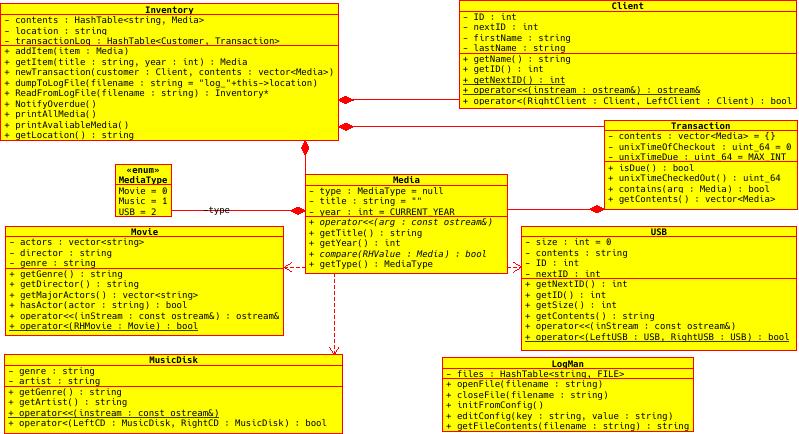
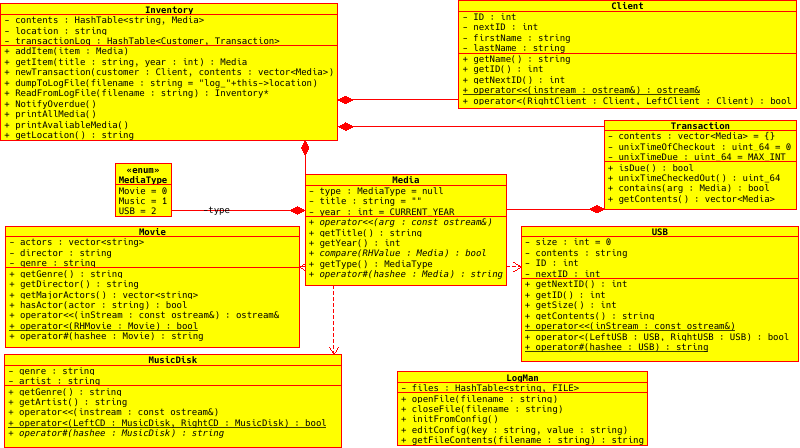
initial work on hastable testing

Changed region(s): [[0.0, 0.0, 1.0, 1.0]]

diff --git a/tests/alltests.cpp b/tests/alltests.cpp
@@ -1,7 +1,7 @@
 #include <iostream>
-#include "../src/media/movie/movie_genres/header_files/classic.h"
-#include "../src/media/movie/movie_genres/header_files/drama.h"
-#include "../src/media/movie/movie_genres/header_files/comedy.h"
+#include "media/movie/movie_genres/header_files/classic.h"
+#include "media/movie/movie_genres/header_files/drama.h"
+#include "media/movie/movie_genres/header_files/comedy.h"
 
 
 using namespace std;

diff --git a/tests/hashtabletest.cpp b/tests/hashtabletest.cpp
@@ -1,0 +1,10 @@
+#include <iostream>
+#include <string>
+using namespace std;
+
+extern HashTableForTesting<int, int> testTable;
+
+void hashTableTest(){
+  cout << "[+] Testing HashTable" << endl;
+}
+XS\\

diff --git a/src/hashtable.cpp b/src/hashtable.cpp
@@ -1,2 +1,9 @@
 // THIS IS TO BE INCLUDED AT THE BOTTOM OF HASHTABLE.H
 // DO NOT MANUALLY COMPILE THIS FILE
+
+#ifndef HASHTABLE_CPP
+#define HASHTABLE_CPP
+
+
+
+#endif HASHTABLE_CPP
